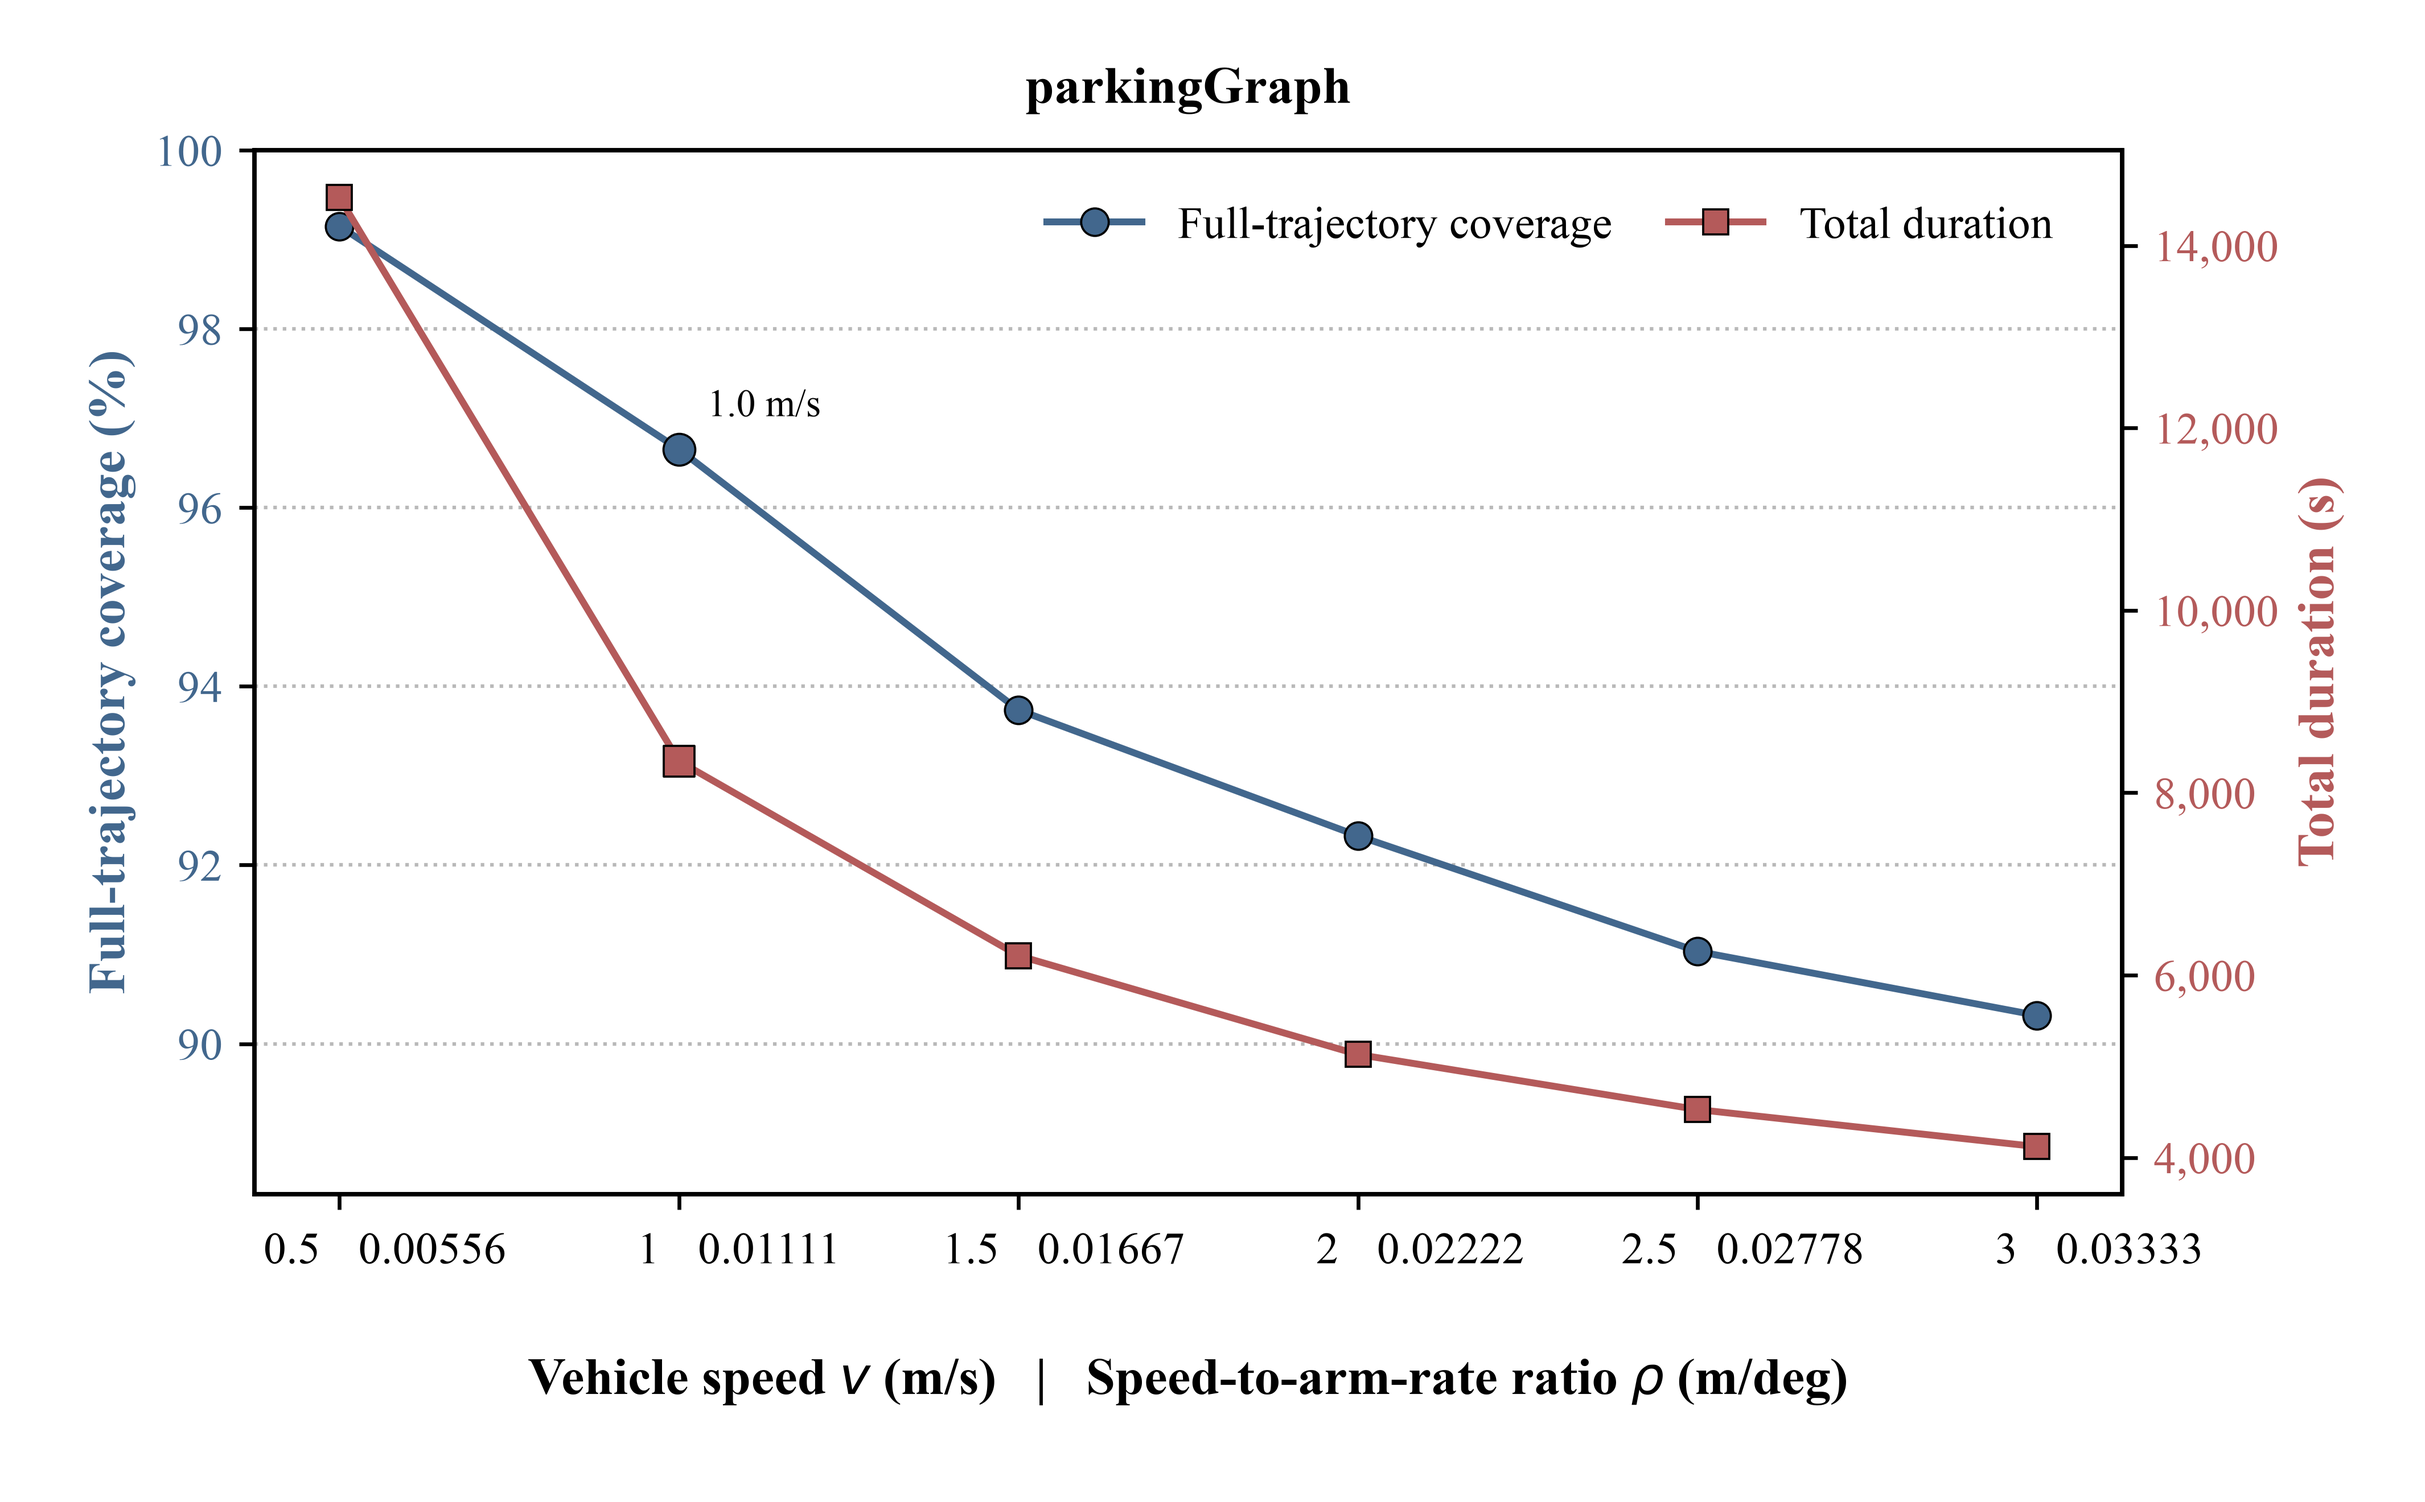
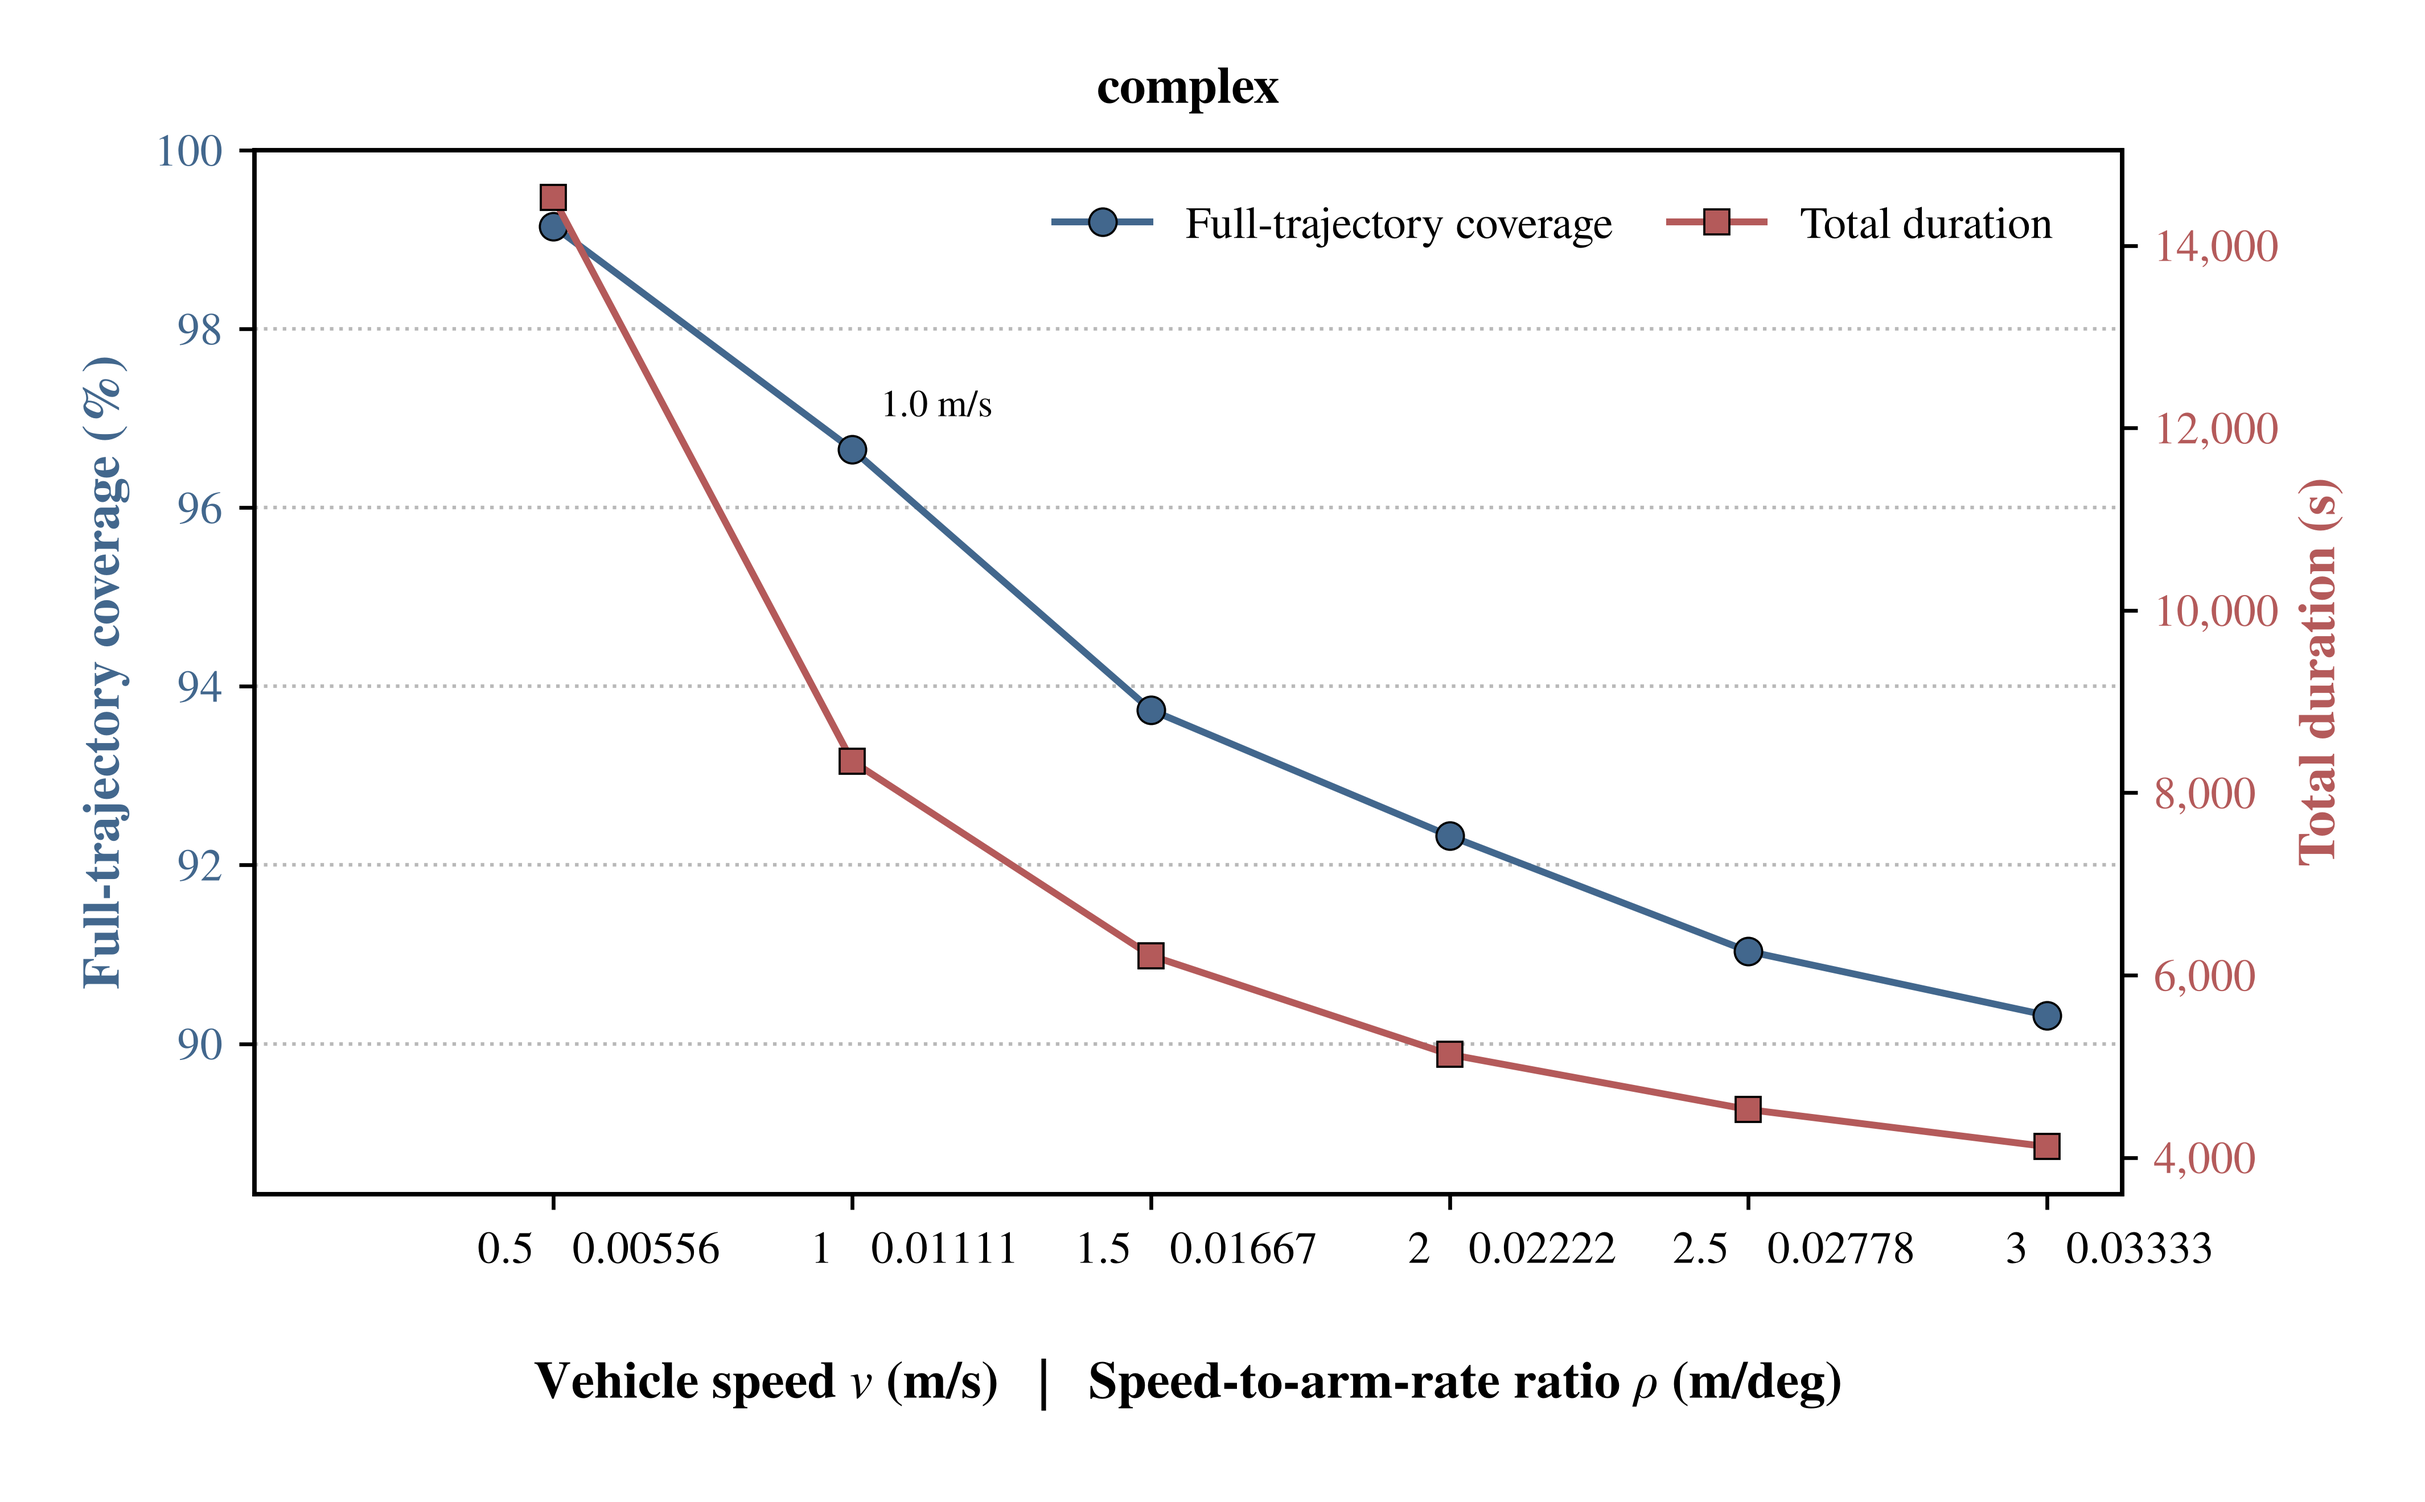
docs: redraw the speed curves with rho starting at zero

diff --git a/scripts/figures/speed_curves.py b/scripts/figures/speed_curves.py
@@ -1,0 +1,150 @@
+"""Redraw the two speed-study curves from the existing CSVs (revision 81).
+
+The rho axis starts at 0. Ticks and markers stay on the measured ratios
+only: there is no sample at rho=0 and no single-strip curve. Titles are
+simple and complex. The CSVs are read in place and are not copied.
+"""
+
+import sys
+from pathlib import Path
+
+sys.path.insert(0, str(Path(__file__).resolve().parent))
+
+import matplotlib.pyplot as plt
+import pandas as pd
+from matplotlib.ticker import FuncFormatter
+
+from paper_style import figures_dir, use_serif
+
+
+COVERAGE_COLOR = "#42678D"
+DURATION_COLOR = "#B45A5A"
+GRID_COLOR = "#B9B9B9"
+_DATA = Path(
+    "/home/panyz/workspace/Tsinghua/cpp_paper/Coverage_Path_Planning"
+    "/pathCoverage_experiment/experiments/vehicle_speed_comparison/results"
+)
+_PLOTS = (
+    (_DATA / "map_test1" / "comparison_summary.csv", "simple",
+     "figure_5a_vehicle_speed_map_simple_en.png"),
+    (_DATA / "parkingGraph" / "comparison_summary.csv", "complex",
+     "figure_5b_vehicle_speed_parkingGraph_en.png"),
+)
+
+
+def _read_rows(summary_csv: Path) -> pd.DataFrame:
+    rows = pd.read_csv(summary_csv)
+    if rows.empty:
+        raise ValueError(f"no rows in {summary_csv}")
+    rows = rows.sort_values("configured_speed_mps").copy()
+    rows["rho_m_per_deg"] = (
+        rows["configured_speed_mps"] / rows["arm_angular_velocity_deg_s"]
+    )
+    rows["coverage_percent"] = 100.0 * rows["full_trajectory_disc_coverage_ratio"]
+    return rows
+
+
+def _style_axis(axis, *, grid: bool) -> None:
+    for spine in axis.spines.values():
+        spine.set_color("black")
+        spine.set_linewidth(0.9)
+    axis.tick_params(direction="out", length=3.2, width=0.8, color="black")
+    if grid:
+        axis.grid(True, axis="y", linestyle=":", linewidth=0.75, color=GRID_COLOR, zorder=0)
+    else:
+        axis.grid(False)
+
+
+def _plot(summary_csv: Path, title: str, output: Path) -> None:
+    rows = _read_rows(summary_csv)
+    speeds = rows["configured_speed_mps"].to_numpy()
+    durations = rows["duration_seconds"].to_numpy()
+    coverage = rows["coverage_percent"].to_numpy()
+    rho = rows["rho_m_per_deg"].to_numpy()
+    if len(rho) != len(rows) or (rho <= 0).any():
+        raise SystemExit(f"unexpected rho values in {summary_csv}")
+
+    fig, coverage_axis = plt.subplots(figsize=(7.1, 4.4))
+    duration_axis = coverage_axis.twinx()
+    coverage_axis.plot(
+        rho, coverage, color=COVERAGE_COLOR, marker="o", markersize=5.8,
+        markeredgecolor="black", markeredgewidth=0.45, linewidth=1.45,
+        label="Full-trajectory coverage",
+    )
+    duration_axis.plot(
+        rho, durations, color=DURATION_COLOR, marker="s", markersize=5.2,
+        markeredgecolor="black", markeredgewidth=0.45, linewidth=1.45,
+        label="Total duration",
+    )
+    reference = rows.loc[rows["configured_speed_mps"].sub(1.0).abs().idxmin()]
+    coverage_axis.annotate(
+        "1.0 m/s",
+        (reference["rho_m_per_deg"], reference["coverage_percent"]),
+        xytext=(6, 7), textcoords="offset points", fontsize=8, color="black",
+    )
+    coverage_axis.set_xlabel(
+        r"Vehicle speed $v$ (m/s)   |   Speed-to-arm-rate ratio $\rho$ (m/deg)",
+        labelpad=28,
+    )
+    coverage_axis.set_ylabel("Full-trajectory coverage (%)", color=COVERAGE_COLOR)
+    duration_axis.set_ylabel("Total duration (s)", color=DURATION_COLOR)
+    coverage_axis.tick_params(axis="y", colors=COVERAGE_COLOR)
+    duration_axis.tick_params(axis="y", colors=DURATION_COLOR)
+    coverage_axis.set_xticks(rho)
+    coverage_axis.set_xticklabels([])
+    bottom = coverage_axis.get_xaxis_transform()
+    for speed, ratio in zip(speeds, rho):
+        coverage_axis.annotate(
+            f"{speed:g}", xy=(ratio, 0), xycoords=bottom, xytext=(-4, -8),
+            textcoords="offset points", ha="right", va="top", fontsize=9.5,
+            color="black", clip_on=False,
+        )
+        coverage_axis.annotate(
+            f"{ratio:.5f}", xy=(ratio, 0), xycoords=bottom, xytext=(4, -8),
+            textcoords="offset points", ha="left", va="top", fontsize=9.5,
+            color="black", clip_on=False,
+        )
+    coverage_axis.set_ylim(max(0.0, coverage.min() - 2.0), min(100.0, coverage.max() + 1.5))
+    right = coverage_axis.get_xlim()[1]
+    coverage_axis.set_xlim(left=0, right=right)
+    if coverage_axis.get_xlim()[0] != 0:
+        raise SystemExit("rho axis does not start at 0")
+    if 0 in set(coverage_axis.get_xticks()):
+        raise SystemExit("a tick was placed at rho=0")
+    duration_axis.yaxis.set_major_formatter(FuncFormatter(lambda value, _: f"{value:,.0f}"))
+    _style_axis(coverage_axis, grid=True)
+    _style_axis(duration_axis, grid=False)
+    coverage_axis.set_title(title, pad=10)
+    lines = coverage_axis.get_lines() + duration_axis.get_lines()
+    coverage_axis.legend(
+        lines, [line.get_label() for line in lines], loc="upper right",
+        bbox_to_anchor=(0.985, 0.985), ncol=2, handlelength=2.1, columnspacing=1.25,
+    )
+    fig.subplots_adjust(left=0.105, right=0.875, bottom=0.205, top=0.90)
+    with plt.rc_context({"savefig.bbox": None}):
+        fig.savefig(output, dpi=600)
+    plt.close(fig)
+    print(output)
+
+
+def main() -> None:
+    use_serif()
+    plt.rcParams.update({
+        "font.size": 10,
+        "axes.labelsize": 11,
+        "axes.titlesize": 11,
+        "axes.titleweight": "bold",
+        "axes.labelweight": "bold",
+        "axes.linewidth": 0.9,
+        "xtick.labelsize": 9.5,
+        "ytick.labelsize": 9.5,
+        "legend.fontsize": 9.5,
+        "legend.frameon": False,
+    })
+    out_dir = figures_dir()
+    for csv_path, title, name in _PLOTS:
+        _plot(csv_path, title, out_dir / name)
+
+
+if __name__ == "__main__":
+    main()

diff --git a/notes/progress-B.md b/notes/progress-B.md
@@ -48,4 +48,10 @@
 
   Output: `english_paper/figures/figure_2_coverage_comparison_en.png`.
 
-- [ ] 81. Speed curves.
+- [x] 81. Speed curves redrawn from the existing comparison CSVs. The \(\rho\) axis starts at 0, ticks and markers stay on the six measured ratios, and there is no point at \(\rho=0\) and no single-strip curve. In-figure titles are `simple` and `complex`. Speed and \(\rho\) remain on the one bottom axis.
+
+  ```bash
+  python scripts/figures/speed_curves.py
+  ```
+
+  Output: `english_paper/figures/figure_5a_vehicle_speed_map_simple_en.png` and `english_paper/figures/figure_5b_vehicle_speed_parkingGraph_en.png`. Data: `pathCoverage_experiment/experiments/vehicle_speed_comparison/results/{map_test1,parkingGraph}/comparison_summary.csv`. The caption is unchanged.
